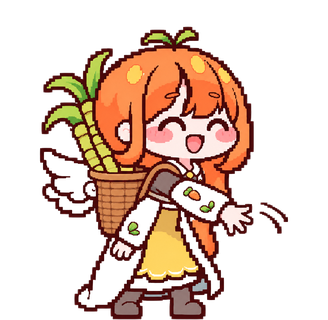
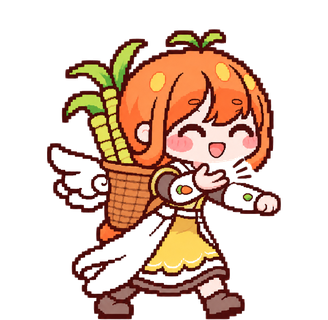
수레: 밀며 걷기 4자세(지나가는 발 2장 추가), 던지기 팔 다시(짧은 밑으로 던지기), 엎기는 캬롯이 수레째 들어 엎는 그림 6장으로 교체

diff --git a/android/app/src/main/java/com/oddfactory/carrot/Stage.java b/android/app/src/main/java/com/oddfactory/carrot/Stage.java
@@ -91,12 +91,14 @@ final class Stage extends View {
     // 고를 때마다: 빈 수레를 밀고 그 칸까지 → 손을 놓고 평소 잡초 뽑기(잡기·버티기·쑥) → 뽑은 것을 수레에 던져 넣음
     // 수레 그림은 따로(barrow.png). 짐은 짐칸 안에 들어가고, 앞판을 다시 덮어 그려 '담긴' 모양으로.
     // 삭제가 끝나면: 가까운 화면 끝으로 밀고 가서 바퀴를 축으로 수레를 기울여 짐을 화면 밖으로 쏟는다.
-    static final Clip PUSH = new Clip("push_a", 170, "push_b", 170);
+    // 수레 밀며 걷기: 왼발 → 지나가는 발 → 오른발 → 지나가는 발(몸이 살짝 위로)
+    static final Clip PUSH = new Clip("push_a", 130, "push_pass_a", 110, "push_b", 130, "push_pass_b", 110);
     static final Clip PICK = new Clip("wn_lower1", 140, "wn_lower2", 130, "wn_grab_v2", 200, "wn_lower2", 130, "wn_grab_v2", 200,
             "wn_pop", 260, "bw2_toss", 320, "push_a", 120);
     static final long PICK_GRAB = 140 + 130 + 200 + 130 + 200;   // 쑥 뽑히는 순간(칸의 식물이 손으로)
     static final long PICK_TOSS = PICK_GRAB + 260;               // 던지는 순간
-    static final Clip DUMP = new Clip("push_a", 150, "bw2_lift", 1300, "push_a", 300);
+    // 수레째 엎기(캐릭터가 손잡이를 들어 올려 엎는 그림 6장, 수레·짐 포함)
+    static final Clip DUMP = new Clip("dump_0", 200, "dump_1", 220, "dump_2", 240, "dump_3", 650, "dump_4", 260, "dump_5", 700);
     enum B { NONE, HOLD, WALK, PICK, DUMP }
     static final class Job { float sx, sy; Bitmap item; Runnable picked; boolean dump; Runnable done; }
     static final class Fly { Bitmap b; float x, y, vx, vy, rot, vr; boolean toBin; float t, dur, x0, y0, x1, y1; int slot; }
@@ -173,10 +175,9 @@ final class Stage extends View {
                 break;
             }
             case DUMP: {
-                // 들어 올리며 기울이기(0→70도) → 잠깐 → 내려놓기, 기울어지는 동안 짐을 쏟음
-                float k = t < 150 ? 0 : t < 750 ? (t - 150) / 600f : t < 1150 ? 1 : t < 1450 ? 1 - (t - 1150) / 300f : 0;
-                tilt = 40 * (k < 0 ? 0 : k > 1 ? 1 : k);
-                if (!stack.isEmpty() && tilt > 28) eject();
+                // 그림 속 짐이 쏟아지는 장면(dump_3)에 맞춰 실제 짐도 화면 밖으로 날려 보낸다
+                long ejectAt = DUMP.ms[0] + DUMP.ms[1] + DUMP.ms[2];
+                if (!stack.isEmpty() && t >= ejectAt) eject();
                 if (t >= DUMP.total) barrowAlpha = Math.max(0, 1 - (t - DUMP.total) / 300f);
                 if (t >= DUMP.total + 300) {
                     Runnable d = job != null ? job.done : null; job = null; bs = B.NONE; stack.clear(); tilt = 0; barrowAlpha = 1f;
@@ -260,6 +261,17 @@ final class Stage extends View {
     }
 
     void drawBarrow(Canvas c, long now) {
+        if (bs == B.DUMP && sp.dw > 0) { // 수레째 그린 엎기 프레임
+            Bitmap d = sp.frame(DUMP.at(now - bt0, false));
+            if (d != null) {
+                float k = charH() / sp.h, w = sp.dw * k, h = sp.dh * k, left = x - sp.dFootX * k, top = y - sp.dFootY * k;
+                Paint p = new Paint(px); p.setAlpha((int) (255 * barrowAlpha));
+                c.save(); if (!faceRight) c.scale(-1, 1, x, y);
+                c.drawBitmap(d, null, new RectF(left, top, left + w, top + h), p);
+                c.restore();
+            }
+            return;
+        }
         boolean picking = bs == B.PICK;
         // 1) 뽑는 동안은 캬롯이 수레 앞(손을 놓고 잡초 쪽), 그 밖에는 캬롯이 손잡이 뒤
         drawBarrowSprite(c, false);

diff --git a/tools/web_extra.py b/tools/web_extra.py
@@ -99,11 +99,11 @@ def build(out_dir, stamp):
     pick = [("wn_lower1", 140), ("wn_lower2", 130), ("wn_grab_v2", 200), ("wn_lower2", 130), ("wn_grab_v2", 200), ("wn_pop", 260)]
     for k in range(4):
         tx = 130 + k * 25
-        steps = 6
+        steps = 8
         for i in range(steps):
             xx = x + (tx - x) * (i + 1) / steps
-            put(f"x_col_{n}", sc.render("push_a" if i % 2 == 0 else "push_b", xx, Y, 0, items[:k],
-                                         ground=(items[k], xx + CHAR_H * 0.285 + (tx - xx))), 170); n += 1
+            put(f"x_col_{n}", sc.render(("push_a", "push_pass_a", "push_b", "push_pass_b")[i % 4], xx, Y, 0, items[:k],
+                                         ground=(items[k], xx + CHAR_H * 0.285 + (tx - xx))), 130); n += 1
         x = tx; gx = x + CHAR_H * 0.285
         for j, (f, ms) in enumerate(pick):
             put(f"x_col_{n}", sc.render(f, x, Y, 0, items[:k], ground=(items[k], gx) if j < 5 else None), ms); n += 1
@@ -116,20 +116,12 @@ def build(out_dir, stamp):
         put(f"x_col_{n}", sc.render("push_a", x, Y, 0, items[:k + 1]), 250); n += 1
     motions.append({"id": "barrow_collect", "title": "여러 개 선택 → 뽑아서 수레에 싣기", "frames": out}); out = []
 
-    # 2) 수레 엎기: 바퀴를 축으로 0→70도, 35도 넘으면 짐이 앞으로 쏟아져 날아감
-    x = 160.0; flies = []; stack = list(items); n = 0
-    for t in range(0, 1750, 70):
-        kk = 0 if t < 150 else (t - 150) / 600 if t < 750 else 1 if t < 1150 else 1 - (t - 1150) / 300 if t < 1450 else 0
-        tilt = 40 * max(0, min(1, kk))
-        if stack and tilt > 28:
-            for i, it in enumerate(stack):
-                sx, sy = sc.slot(x, Y, i, tilt)
-                flies.append([it, sx, sy, 1.2 + 0.25 * i, -(0.9 + 0.2 * (i % 2)), 400 + 80 * i, 0])
-            stack = []
-        for f in flies:  # 한 칸(70ms)씩 포물선
-            dt = 0.07; f[4] += 3.2 * dt; f[1] += f[3] * CHAR_H * dt; f[2] += f[4] * CHAR_H * dt; f[6] += f[5] * dt
-        name = "push_a" if t < 150 or t >= 1450 else "bw2_lift"
-        put(f"x_dump_{n}", sc.render(name, x, Y, tilt, stack, [(f[0], f[1], f[2], f[6]) for f in flies]), 70); n += 1
+    # 2) 수레 엎기: 캬롯이 손잡이를 들어 올려 수레째 엎는 그림 6장
+    for i, ms in enumerate((200, 220, 240, 650, 260, 700)):
+        d = load(os.path.join(FR, f"dump_{i}.png"))
+        c = Image.new("RGBA", (CW, CH), (255, 255, 255, 255))
+        c.alpha_composite(d, ((CW - d.width) // 2, Y - d.height))
+        put(f"x_dump_{i}", c.convert("RGB"), ms)
     motions.append({"id": "barrow_dump", "title": "삭제 끝 → 화면 끝에서 수레 엎기", "frames": out}); out = []
 
     # 3) 햇님이

diff --git a/tools/export_dump.py b/tools/export_dump.py
@@ -1,0 +1,45 @@
+"""수레째 엎기 6프레임(art/anim/keys/dump_sheet.png, 한 줄 6칸 같은 폭) → assets/frames/dump_0..5.png + dump.json.
+칸을 같은 폭으로 잘라 GPT가 그린 자리(바퀴 고정)를 그대로 유지. 크기는 1번 프레임 키를 스탠딩 키에 맞춤."""
+import json, os
+from PIL import Image
+import build_web as bw, export_overlay as eo
+
+FR = os.path.join(bw.ROOT, "android", "app", "src", "main", "assets", "frames")
+src = eo.clear_bg(Image.open(os.path.join(bw.KEYS, "dump_sheet.png")).convert("RGB"))
+W, H = src.size; n = 6; cw0 = W // n
+cells = [src.crop((i * cw0, 0, (i + 1) * cw0, H)) for i in range(n)]
+
+
+def drop_edge_bits(c):
+    """칸 경계에 걸려 들어온 옆 그림 부스러기(가장자리에 닿은 작은 덩어리) 지우기."""
+    from collections import deque
+    a = c.load(); w, h = c.size; seen = set()
+    for sx in (0, w - 1):
+        for sy in range(h):
+            if (sx, sy) in seen or a[sx, sy][3] == 0: continue
+            q = deque([(sx, sy)]); seen.add((sx, sy)); comp = []
+            while q:
+                x, y = q.popleft(); comp.append((x, y))
+                for nx, ny in ((x + 1, y), (x - 1, y), (x, y + 1), (x, y - 1)):
+                    if 0 <= nx < w and 0 <= ny < h and (nx, ny) not in seen and a[nx, ny][3] > 0:
+                        seen.add((nx, ny)); q.append((nx, ny))
+            if len(comp) < 3000:
+                for p in comp: a[p] = (0, 0, 0, 0)
+    return c
+
+
+cells = [drop_edge_bits(c) for c in cells]
+union = None
+for c in cells:
+    b = c.getbbox(); union = b if union is None else (min(union[0], b[0]), min(union[1], b[1]), max(union[2], b[2]), max(union[3], b[3]))
+cells = [c.crop(union) for c in cells]
+meta = json.load(open(os.path.join(FR, "meta.json")))
+b0 = cells[0].getbbox(); k = (meta["footY"] - meta["bodyTop"]) / (b0[3] - b0[1])
+cells = [c.resize((round(c.width * k), round(c.height * k)), Image.NEAREST) for c in cells]
+for i, c in enumerate(cells): c.save(os.path.join(FR, f"dump_{i}.png"))
+# 발 기준점: 1번 프레임 아래쪽 20% 중 가장 왼쪽 덩어리(발) 가운데
+f = cells[0]; a = f.getchannel("A").load(); hh = f.height
+xs = [x for y in range(int(hh * 0.85), hh) for x in range(int(f.width * 0.45)) if a[x, y] > 0]
+foot_x = (min(xs) + max(xs)) / 2 if xs else f.width * 0.2
+json.dump({"w": f.width, "h": hh, "footX": foot_x, "footY": hh - 1}, open(os.path.join(FR, "dump.json"), "w"))
+print(f.size, foot_x)

diff --git a/android/app/src/main/java/com/oddfactory/carrot/Sprites.java b/android/app/src/main/java/com/oddfactory/carrot/Sprites.java
@@ -15,6 +15,7 @@ final class Sprites {
     final Bitmap weed;
     // 수레(따로 그린 빈 수레, barrow.json): 손잡이 끝·바닥·바퀴축·짐칸 위치(수레 그림 px), 밀 때 손 위치(캐릭터 프레임 px)
     Bitmap barrow, barrowFront;
+    int dw, dh; float dFootX, dFootY; // 수레째 엎기 프레임(캐릭터+수레 한 그림)
     float bGripX, bGripH, bGroundY, bAxleX, bBinL, bBinR, bRimY, bFrontY, handX, handH;
     private final Context ctx;
     private final Map<String, Bitmap> cache = new HashMap<>();
@@ -33,6 +34,10 @@ final class Sprites {
             bRimY = (float) b.getDouble("rimY"); bFrontY = (float) b.getDouble("frontY");
             handX = (float) b.getDouble("handX"); handH = (float) b.getDouble("handH");
         } catch (Exception e) { barrow = null; }
+        try {
+            JSONObject d = new JSONObject(read("frames/dump.json"));
+            dw = d.getInt("w"); dh = d.getInt("h"); dFootX = (float) d.getDouble("footX"); dFootY = (float) d.getDouble("footY");
+        } catch (Exception ignored) {}
     }
 
     Bitmap frame(String name) {

diff --git a/tools/export_overlay.py b/tools/export_overlay.py
@@ -27,7 +27,7 @@ FRAMES = [
     "h01_notice", "m05_harvest", "m05b_harvest_v2", "h03_popout", "k05_harvest",
     "m06_invite", "m06b_invite", "k06_invite",
     "fall_0", "fall_1", "fall_2",
-    "push_a", "push_b", "bw2_toss", "bw2_lift",
+    "push_a", "push_pass_a", "push_b", "push_pass_b", "bw2_toss", "bw2_lift",
 ]
 
 
